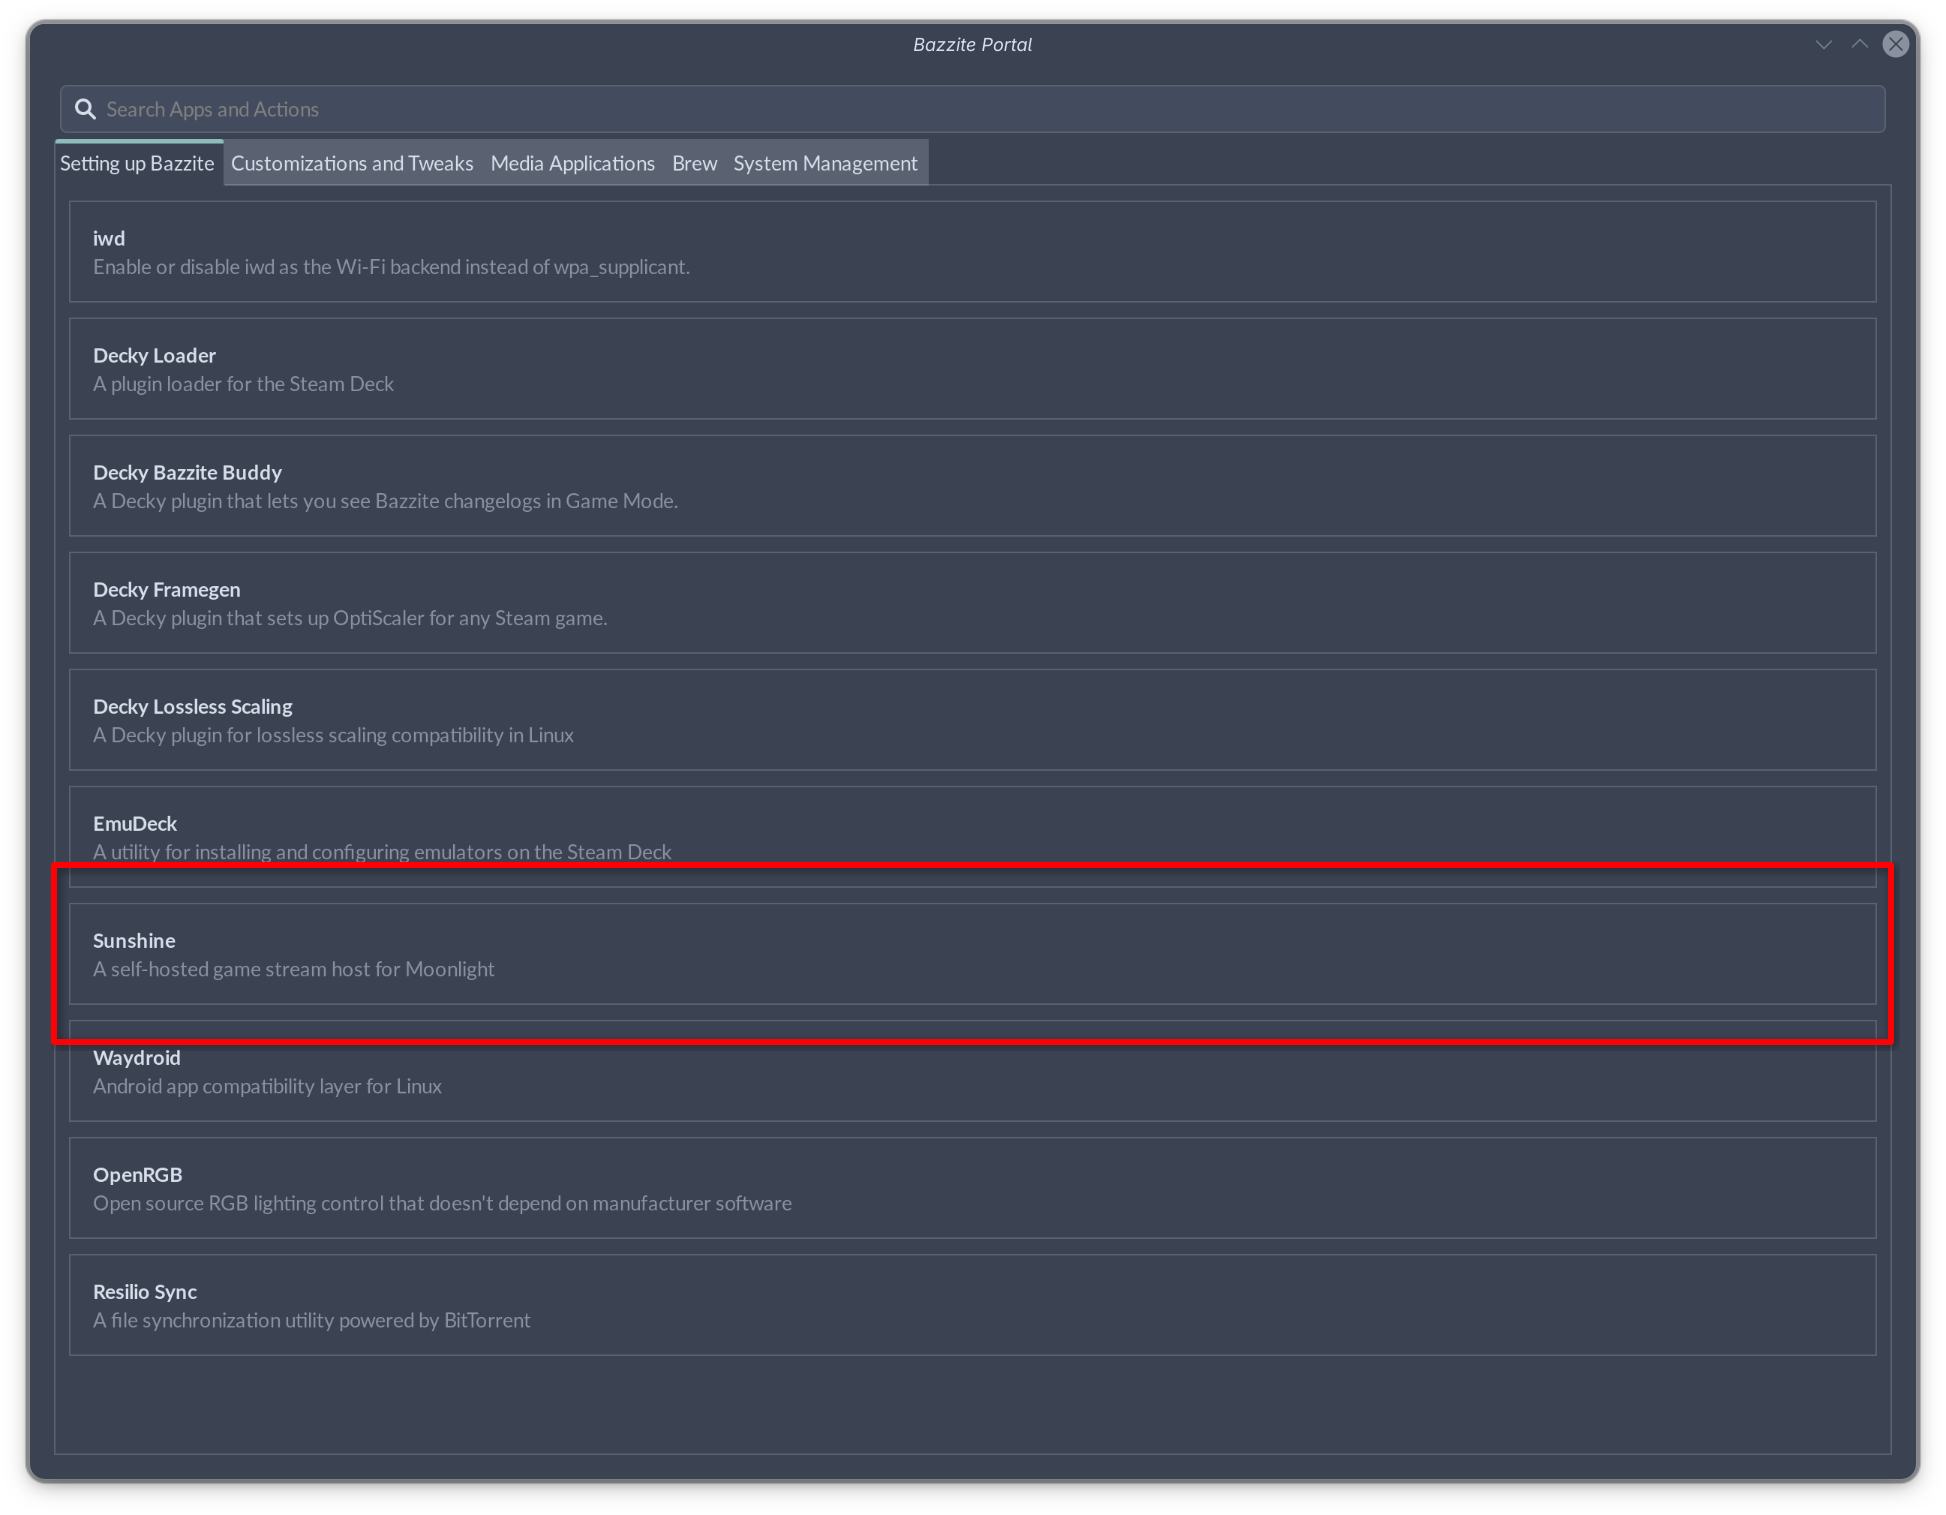
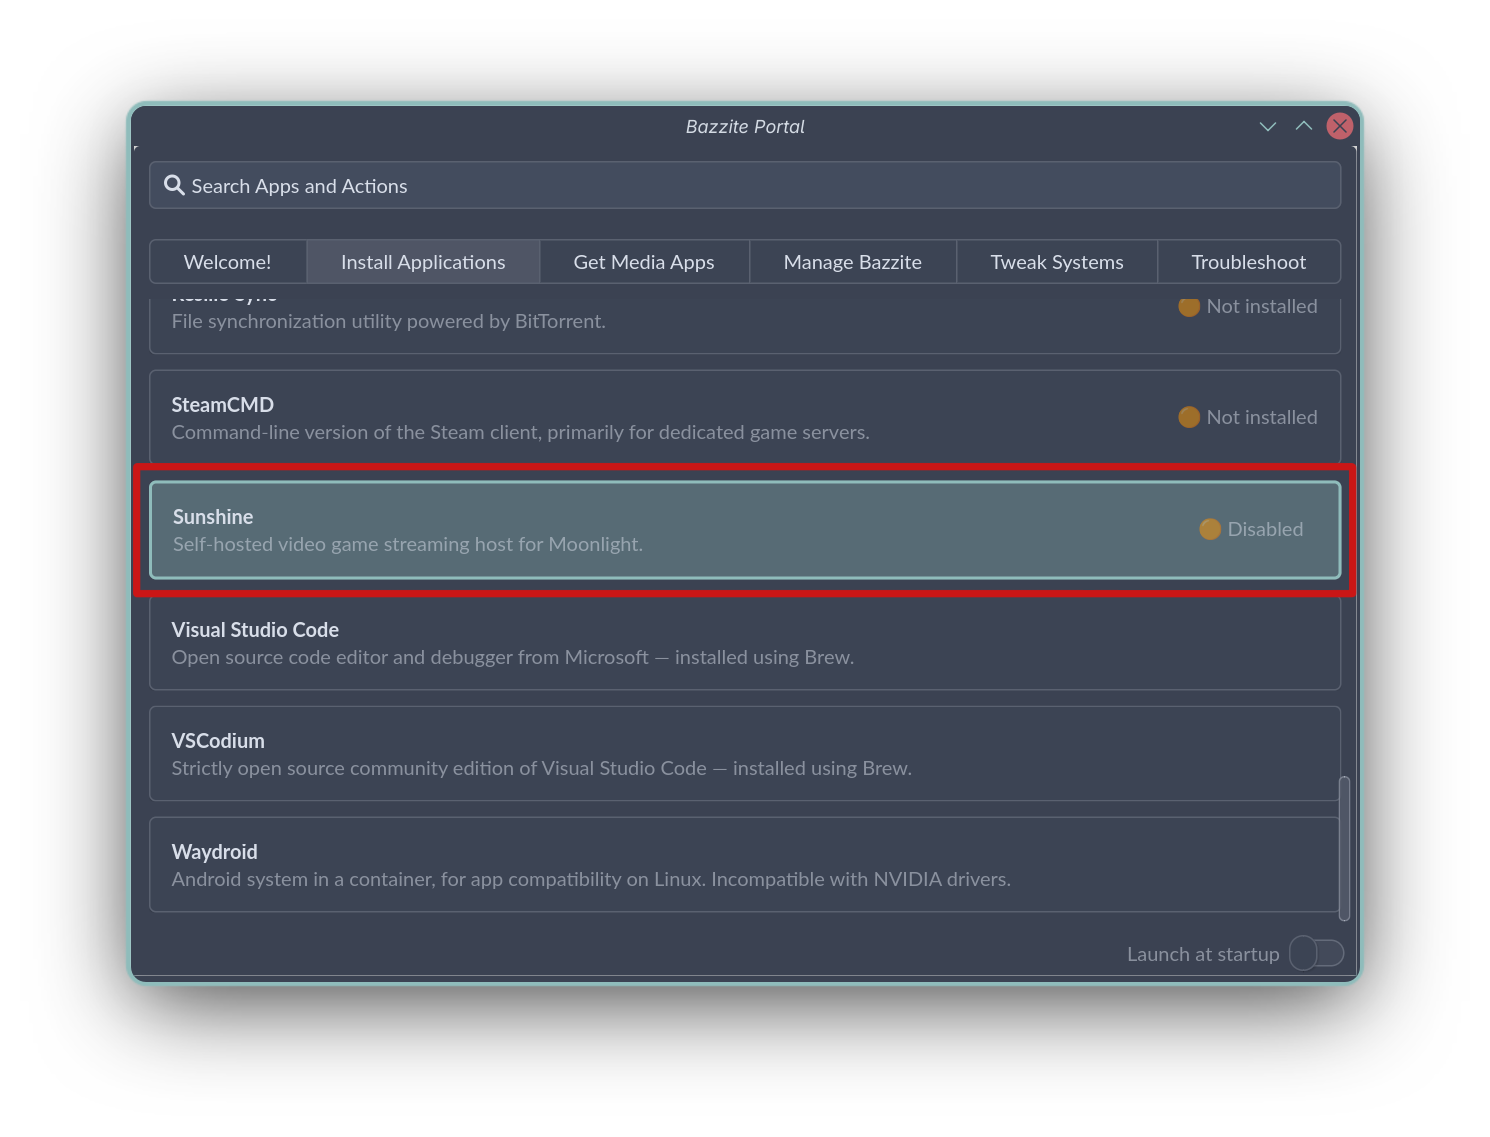
docs(sunshine): update for sunshine rework

diff --git a/src/Advanced/sunshine.md b/src/Advanced/sunshine.md
@@ -19,19 +19,56 @@ The recommended way of setting up Sunshine on Bazzite is through **Bazzite Porta
 
 ---
 
-## What Should I Do If I am Currently Using Sunshine?
+## Setting up Sunshine
 
-!!! notice "Users of Bazzite-Deck images, please read this [Section](/Advanced/sunshine.md#setting-up-sunshine-on-deck-images)"
-
-The guide below will walk you through switching to the Sunshine flatpak.
 !!! warning "It is highly recommended that you do this with physical access to your machine, or at least with an ssh connection set up."
 
-1. Open the Bazzite Portal and select **Sunshine**
-![Bazzite Portal Menu Preview|400x300](../img/sunshine-bazzite-portal-menu.png)
-2. Select **Enable Sunshine**
-![Bazzite Portal Submenu Preview|250x200](../img/sunshine-bazzite-portal-submenu.png)
-3. A Terminal Window will appear. Wait for the installation to complete and you will be prompted to input your password to give extra permissions to Sunshine for screen capture and other functionalities.
-4. This is a good time to test if your new setup works - Your settings should persist.
+=== "Desktop (Flatpak)"
+
+    !!! notice "Users of Bazzite-Deck images, please read this [Section](#__tabbed_1_2)"
+
+    The guide below will walk you through installing the Sunshine flatpak.
+
+    1. Open the Bazzite Portal and select **Sunshine**
+    ![Bazzite Portal Menu Preview|400x300](../img/sunshine-bazzite-portal-menu.png)
+    2. Select **Enable Sunshine**
+    ![Bazzite Portal Submenu Preview|250x200](../img/sunshine-bazzite-portal-submenu.png)
+    3. A Terminal Window will appear. Wait for the installation to complete and you will be prompted to input your password to give extra permissions to Sunshine for screen capture and other functionalities.
+    4. This is a good time to test if your new setup works - Your settings should persist.
+
+=== "Deck (Layer)"
+
+    !!! info 
+
+        Deck Images make use of Valve's gamescope microcompositor while in **Game Mode**. 
+        
+        As gamescope does not support capture via XDG Portal or Kwin Screencast, streaming must be done using KMS Capture. As the flatpak package of Sunshine does not support Capture via Kernel Mode Setting, you will need to install Sunshine via alternate means if you want to stream from **Game Mode**. However, you may still stream via XDG Portal/KWin Screencast capture if you use **Desktop Mode**.
+
+    Bazzite Portal provides an aptly named **Enable Sunshine via Layering(for Deck users)** option to help users set up Sunshine. Simply follow the steps below:
+
+    1. Open the Bazzite Portal and select **Sunshine**
+    ![Bazzite Portal Menu Preview|400x300](../img/sunshine-bazzite-portal-menu.png)
+    2. Select **Enable Sunshine via Layering(for Deck users)**
+    ![Bazzite Portal Submenu Preview|250x200](../img/sunshine-bazzite-portal-submenu-deck.png)
+    3. A Terminal Window will appear. Wait for the installation to complete and you will be instructed to restart.
+
+    !!!tip
+
+        As layering does not permit us to set up the autostart service before hand, we need to enable the service **after** restarting. This can be done by either:
+
+        *   Selecting **Enable Sunshine via Layering(for Deck users)** in Bazzite Portal once again; or,
+        *   Running `systemctl --user enable --now sunshine`.
+        
+    4. You may now test whether Sunshine works now.
+
+=== "Command Line"
+
+    Run the following command:
+    
+    ```bash
+    ujust setup-sunshine
+    ```
+    and choose the relevant options. Read [this](#comparison-of-ways-to-install-sunshine-on-bazzite) for details.
 
 ---
 
@@ -39,39 +76,40 @@ The guide below will walk you through switching to the Sunshine flatpak.
 
 Lizardyte only provides the stable Sunshine **flatpak** package on flathub, which also is limited by Flatpak's sandboxing. The following are some common limitations you may run into:
 
-*   Inability to stream inside [Steam Gaming Mode(Gamescope-Session)](/Handheld_and_HTPC_edition/quirks/?h=#steam-gaming-mode-quirks-and-workarounds)
+*   Inability to stream inside [Steam Gaming Mode(Gamescope-Session)](/Handheld_and_HTPC_edition/quirks/#steam-gaming-mode-quirks-and-workarounds)
 *   Inability to stream using the Kernel Mode Setting capture method
 *   Inability to stream with HDR, which XDG Portal and KWin Screencast does not currently support
 
-In these cases, users are encouraged to use the [Layering method](#setting-up-sunshine-on-deck-images) provided for Deck users.
+In these cases, users are encouraged to use the [Layering method](#__tabbed_1_2) provided for Deck users.
 
 !!! info "The brew installation included previously is now completely removed and considered unsupported as it proved much too unreliable and error-prone. Users are encouraged to choose between the two installation methods Bazzite provides."
 
 ---
 
-## Setting up Sunshine on Deck Images
+## Comparison of Ways to Install Sunshine on Bazzite
 
-Deck Images make use of Valve's gamescope microcompositor while in **Game Mode**. As gamescope does not support capture via XDG Portal or Kwin Screencast, streaming must be done using KMS Capture. As the flatpak package of Sunshine does not support Capture via Kernel Mode Setting, you will need to install Sunshine via alternate means if you want to stream from **Game Mode**. However, you may stream via XDG Portal/KWin Screencast capture if you use **Desktop Mode**.
+| Method                         | Flatpak (Bazzite Portal)                    | Layer (Bazzite Portal, Deck Method)               | Layer from Official COPR                          |
+| :----------------------------: | :------------------------------------------ | :------------------------------------------------ | :------------------------------------------------ |
+| Doesn't block system updates   | ✅ User space Installation                  | ✅ Is actively maintained by **pvermeer**         | ❌ May block updates if COPR is not updated       |
+| Independent version from image | ✅ Manual pinning possible                  | ❌ Manual pinning not possible via rpm-ostree<small>1</small> | ❌ Manual pinning not possible via rpm-ostree<small>1</small> |
+| Kernel Mode Setting Capture    | ❌ SetCap not supported by Flatpak          | ✅ No known issues                                | ✅ No known issues                                |
+| Stable Version                 | ✅ Stable is used by default                | ✅ Auto updates, Community-Tested                 | ❌ Inconsistent builds for Fedora releases<small>2</small>    |
+| Beta Version                   | ℹ Requires manual installation and updates | ✅ Auto updates, Community-Tested                 | ℹ Auto updates, may have breaking changes        |
+| Stability & Support            | ✅ Offically Supported                      | ✅ Auto updates, Community-Tested                 | ❌ Inconsistent builds for Fedora releases<small>2</small>    |
 
-Bazzite Portal provides an aptly named **Enable Sunshine via Layering(for Deck users)** option to help users set up Sunshine. Simply follow the steps below:
+<small>_1: Technically, you can grab and manually layer the builds generated from the COPR, but that requires you to uninstall and reinstall and is not recommended._</small>
+<small>_2: Sunshine had inconsistent builds for their stable package (as in not providing packages for new fedora releases). See [this section](/Advanced/sunshine/#what-is-happening-to-sunshine-on-bazzite)._</small>
 
-1. Open the Bazzite Portal and select **Sunshine**
-![Bazzite Portal Menu Preview|400x300](../img/sunshine-bazzite-portal-menu.png)
-2. Select **Enable Sunshine via Layering(for Deck users)**
-![Bazzite Portal Submenu Preview|250x200](../img/sunshine-bazzite-portal-submenu.png)
-3. A Terminal Window will appear. Wait for the installation to complete and you will be instructed to restart.
-
-!!!tip
-
-    As layering does not permit us to set up the autostart service before hand, we need to enable the service after restarting. This can be done by either:
-
-    *   Selecting **Enable Sunshine via Layering(for Deck users)** in Bazzite Portal once again; or,
-    *   Running `systemctl --user enable --now sunshine`.
-    
-4. You may now test whether Sunshine works now.
+Ultimately, it was decided to use Flatpak for desktop and Layer for deck images in the Bazzite Portal's Sunshine installation helper.
 
 ---
-    
+
+## Streaming Using a Virtual Display
+
+See [Custom Resolutions](/Advanced/custom_resolution/#guide-for-creating-a-custom-resolution-for-sunshine-game-streaming)
+
+---
+
 ## Installing Sunshine Beta
 
 Sunshine does not provide a repository for their flatpak package. You may try to install Sunshine Beta with alternative ways as listed below, albeit with some limitations.
@@ -90,6 +128,15 @@ Sunshine does not provide a repository for their flatpak package. You may try to
     ```
     !!! info "You will have to manually update the package by repeating the steps above for each version."
 
+=== "Layering a community maintained beta package"
+    
+    Layering the Sunshine/Sunshine-Beta community maintained [package](https://copr.fedorainfracloud.org/coprs/pvermeer/sunshine/) by running
+    ```bash
+    sudo dnf5 copr enable pvermeer/sunshine
+    rpm-ostree install sunshine-beta
+    ```
+    !!! info "This community package is maintained by *pvermeer*, who also provides and maintains the Sunshine package for Bazzite, with improvements to the build system from upstream."
+    
 === "Layering the official LizardByte package"
     
     This is similar to the situation when sunshine is/was included in the image.
@@ -99,45 +146,12 @@ Sunshine does not provide a repository for their flatpak package. You may try to
     rpm-ostree install Sunshine
     ```
     !!! warning "Note that this will stop system updates from occurring if Sunshine does not provide an updated package for future Fedora version updates (e.g. Fedora 45). You will be asked to run `rpm-ostree reset` to remove all layered packages when this situation arises."
-
-=== "Layering a community maintained beta package"
     
-    Layering the Sunshine/Sunshine-Beta community maintained [package](https://copr.fedorainfracloud.org/coprs/pvermeer/sunshine/) by running
-    ```bash
-    sudo dnf5 copr enable pvermeer/sunshine
-    rpm-ostree install sunshine-beta
-    ```
-    !!! info "This community package is maintained by *pvermeer*, and is not officially endorsed, maintained, nor packaged by Bazzite."
-    
-=== "Installing the experimental brew package"
+    !!! info "Users are encouraged to use the community maintained package instead as the LizardByte packages had a bad history of updates, including but not limited to changing service names breaking streaming, and lack of updated builds for new Fedora Releases."
 
-    This method is primarily for users on the Deck images.
-    Select Yes in Bazzite Portal 🡒 App Install 🡒 Sunshine 🡒 Enable Beta (Brew).
-    !!! notice "This package is experimental and has known issues related to screen capture and systray indicator. Systray will be disabled and capture mode will be set to KMS by default when installed via Bazzite Portal."
-    
-## Comparison of Ways to Install Sunshine on Bazzite
+---
 
-| Method                         | Flatpak (Bazzite Portal)                    | Brew (Bazzite Portal)                         | Layer from Official COPR                          | Layer from Community COPR                         |
-| :----------------------------: | :------------------------------------------ | :-------------------------------------------- | :------------------------------------------------ | :------------------------------------------------ |
-| Doesn't block system updates   | ✅ User space Installation                  | ✅ User space Installation                    | ❌ May block updates if COPR is not updated       | ℹ Is actively maintained by **pvermeer**         |
-| Independent version from image | ✅ Manual pinning possible                  | ✅ Pinned version by default                  | ❌ Manual pinning not possible via rpm-ostree[^1] | ❌ Manual pinning not possible via rpm-ostree[^1] |
-| Kernel Mode Setting Capture    | ❌ SetCap not supported by Flatpak          | ℹ May have issues on Nvidia                  | ✅ No known issues                                | ✅ No known issues                                |
-| Stable Version                 | ✅ Stable is used by default                | ℹ Requires manual installation               | ❌ Inconsistent builds for Fedora releases[^2]    | ✅ Auto updates, Community-Tested                 |
-| Beta Version                   | ℹ Requires manual installation and updates | ✅ Beta is used by default, pinned by default | ℹ Auto updates, may have breaking changes        | ✅ Auto updates, Community-Tested                 |
-| Stability & Support            | ✅ Offically Supported                      | ℹ Experimental, known issues with systray    | ❌ Inconsistent builds for Fedora releases[^2]    | ✅ Auto updates, Community-Tested                 |
-
-[^1]: Technically, you can grab and manually layer the builds generated from the COPR, but that requires you to uninstall and reinstall.
-[^2]: Sunshine had inconsistent builds for their stable package (as in not providing packages for new fedora releases). See [this section](/Advanced/sunshine/#what-is-happening-to-sunshine-on-bazzite).
-
-Ultimately, it was decided to use Flatpak for desktop and Brew(beta) for deck images in the Bazzite Portal's Sunshine installation helper.
-
-## Streaming Using a Virtual Display
-
-See [Custom Resolutions](/Advanced/custom_resolution/#guide-for-creating-a-custom-resolution-for-sunshine-game-streaming)
-    
 ## Something Went Wrong, What Should I do?
-
-<hr>
 
 ### Is a display connected and turned on? (error 503)
 
@@ -169,30 +183,6 @@ This usually means that the Sunshine executable has trouble capturing the screen
     -   NvFBC is an X11-specific option, and is thus also not supported by Bazzite.
     -   wlroots uses a specific protocol for wlroots-based compositors, which are usually tiling window managers. Bazzite does not have images with these compositors, so this option should only be needed in custom images with said compositors.
 
-<hr>
+---
 
-### Error: Couldn't import RGB Image: 00003009 (error -1) 
-
-When checking `systemctl --user status homebrew.sunshine*`, the error `Error: Couldn't import RGB Image: 00003009` is observed, and you are using an Nvidia system.
-This is speculated to be some issues related to way Sunshine/CUDA is packaged on homebrew. Possible solutions include:
-
--    Update Bazzite and reinstall Sunshine as a Flatpak through Bazzite Portal
--    Using **XDG Portal Capture** and trying different encoders.
--    Manually specify the GPU to use for capture if available.
--    Installing the Beta version of Sunshine with alternative means.
-
-!!! info "Help Sunshine fix this if you do find a solution by reporting it upstream!"
-
-<hr>
-
-### The \`brew link\` step did not complete successfully
-
-This is a known issue with homebrew on systems with a symlinked home directory. 
-!!! info "Consider trying the new stable or beta Sunshine flatpak by updating Bazzite and reinstalling Sunshine through the Bazzite portal."
-![Brew Link Fail Preview|400x200](../img/brew-link-fail.png)
-To fix this, manually make the directory for the **Target** that brew is complaining about, or run the following command:
-`mkdir -p /home/linuxbrew/.linuxbrew/Cellar/xkeyboard-config/2.47/share/xkeyboard-config-2`
-Running the unlink and linking commands may also fix it:
-`brew unlink xkeyboard-config; brew link --overwrite xkeyboard-config`
-    
 Should you encounter any other issue, feel free to reach out on the [Bazzite Discord](/community.md)!
